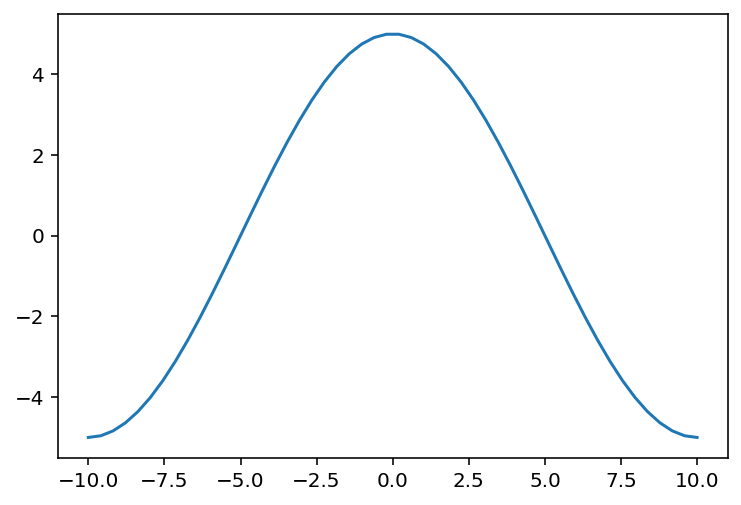
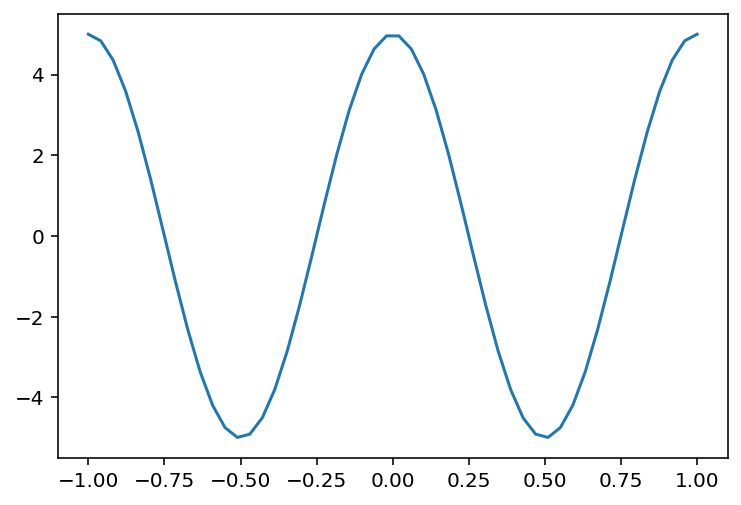
Add files via upload

diff --git a/Tp3/tp3.py b/Tp3/tp3.py
@@ -2,6 +2,7 @@ import numpy as np
 from matplotlib import pyplot as plt 
 
 #%%
+#Q1
 
 def onde(A,c,lbda,x,t):
     '''
@@ -14,12 +15,48 @@ def onde(A,c,lbda,x,t):
     
     return A * (np.cos((( 2 * np.pi ) / lbda) * (x-c*t)))
 
-xx = np.linspace(-10, 10)
+#%%
+#Q2
+xx = np.linspace(-1, 1)
 yy = []
 for x in xx:
-    yy = np.append(yy,onde(5, 300, 20, x, 0) )
+    yy = np.append(yy,onde(5, 1, 1, x, 0) )
     
 print(xx,yy)    
 plt.plot(xx, yy)
 plt.show()
 
+#%%
+#Q3
+
+tt = np.linspace(-1, 1,1000)
+x1 = 0
+x2 = np.pi/2
+x3 = np.pi
+x4 = 3 * np.pi/2
+yy1 = []
+yy2 = []
+yy3 = []
+yy4 = []
+for t in tt:
+    yy1 = np.append(yy1,onde(5, 1, 1, x1, t) )
+    yy2 = np.append(yy2,onde(5, 1, 1, x2, t) )
+    yy3 = np.append(yy3,onde(5, 1, 1, x3, t) )
+    yy4 = np.append(yy4,onde(5, 1, 1, x4, t) )
+
+figur = plt.figure()    
+plt.subplot(2, 2,1)
+plt.plot(tt, yy1)
+
+
+plt.subplot(2, 2,2)
+plt.plot(tt, yy2)
+
+plt.subplot(2, 2,3)
+plt.plot(tt, yy3)
+
+
+plt.subplot(2, 2,4)
+plt.plot(tt, yy4)
+
+    
